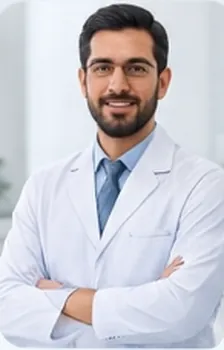
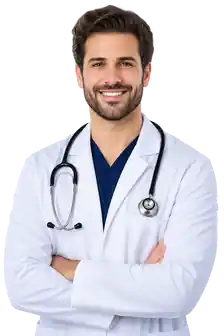
Replace RUWA team screenshot crops with original AI dentist portraits and refine card scale

diff --git a/whitening-2026.html b/whitening-2026.html
@@ -1132,11 +1132,11 @@ body,button,input,select,textarea{font-family:var(--body)}
 .team-intro>.section-marker{margin-inline:auto;justify-content:center}
 .team-intro h2{max-width:740px;margin:16px 0 12px;color:var(--ink);font-family:var(--display);font-size:clamp(30px,3.55vw,43px);font-weight:800;line-height:1.42;letter-spacing:-.04em;text-align:center}
 .team-lead{max-width:720px;margin:0 auto;color:var(--muted);font-size:15px;line-height:2;text-align:center}
-.team-cards{display:grid;grid-template-columns:repeat(3,minmax(0,1fr));gap:22px;align-items:stretch;margin:36px 0 0;padding:0;list-style:none}
+.team-cards{display:grid;grid-template-columns:repeat(3,minmax(0,1fr));gap:22px;align-items:stretch;width:100%;max-width:1150px;margin:32px auto 0;padding:0;list-style:none}
 .team-card-item{display:flex;min-width:0}
-.team-card{display:flex;flex-direction:column;width:100%;min-width:0;overflow:hidden;border:1px solid var(--line);border-radius:18px;background:var(--paper)}
-.team-card-media{position:relative;overflow:hidden;aspect-ratio:4/5;background:var(--lime)}
-.team-card-media img{display:block;width:100%;height:100%;object-fit:cover;object-position:center 27%}
+.team-card{display:flex;flex-direction:column;width:90%;min-width:0;margin-inline:auto;overflow:hidden;border:1px solid var(--line);border-radius:18px;background:var(--paper)}
+.team-card-media{position:relative;overflow:hidden;aspect-ratio:4/5;background:#eef2f3}
+.team-card-media img{display:block;width:100%;height:100%;object-fit:cover;object-position:center 22%}
 .team-card-body{display:flex;flex:1;flex-direction:column;align-items:center;justify-content:flex-start;gap:5px;min-height:150px;padding:18px 16px 20px;text-align:center}
 .team-card-label{display:block;color:var(--blue-deep);font-size:11px;font-weight:700;line-height:1.65}
 .team-card h3{margin:2px 0 0;color:var(--ink);font-family:var(--display);font-size:17px;font-weight:800;line-height:1.55}
@@ -1144,18 +1144,18 @@ body,button,input,select,textarea{font-family:var(--body)}
 .team-disclosure{max-width:760px;margin:22px auto 0;color:var(--muted);font-size:11px;line-height:1.85;text-align:center}
 @media(max-width:900px){
  .team-section{padding-block:58px}
- .team-cards{grid-template-columns:repeat(2,minmax(0,1fr));gap:18px}
- .team-card-item:last-child{grid-column:1/-1;justify-content:center}
- .team-card-item:last-child .team-card{width:calc((100% - 18px)/2)}
+ .team-cards{grid-template-columns:repeat(2,minmax(0,1fr));gap:18px;max-width:760px}
+ .team-card-item:last-child{grid-column:1/-1;width:calc((100% - 18px)/2);justify-self:center;justify-content:center}
+ .team-card-item:last-child .team-card{width:90%}
 }
 @media(max-width:620px){
  .team-section{padding-block:52px}
  .team-intro h2{margin-top:13px;margin-bottom:10px;font-size:clamp(29px,7.1vw,35px);line-height:1.42}
  .team-lead{font-size:14px;line-height:1.95}
- .team-cards{grid-template-columns:minmax(0,1fr);gap:16px;margin-top:25px}
- .team-card-item:last-child{grid-column:auto}
- .team-card-item:last-child .team-card{width:100%}
- .team-card{width:min(100%,390px);margin-inline:auto}
+ .team-cards{grid-template-columns:minmax(0,1fr);gap:16px;max-width:390px;margin:25px auto 0}
+ .team-card-item:last-child{grid-column:auto;width:100%;justify-self:stretch}
+ .team-card-item:last-child .team-card{width:min(90%,350px)}
+ .team-card{width:min(90%,350px);margin-inline:auto}
  .team-card-media{aspect-ratio:4/5}
  .team-card-body{min-height:132px;padding:15px 15px 17px}
  .team-card h3{font-size:16px}
@@ -1370,15 +1370,15 @@ body,button,input,select,textarea{font-family:var(--body)}
    </header>
    <ul class="team-cards" aria-label="ثلاث صور توضيحية لأطباء الأسنان">
     <li class="team-card-item"><article class="team-card">
-     <div class="team-card-media"><img src="assets/ruwa-team-doctor-01.webp" width="224" height="350" alt="صورة توضيحية مولّدة بالذكاء الاصطناعي لطبيب أسنان رجل، ولا تمثل شخصًا حقيقيًا." loading="lazy" decoding="async"></div>
+     <div class="team-card-media"><img src="assets/ruwa-team-doctor-01.webp" width="640" height="960" alt="صورة توضيحية مولّدة بالذكاء الاصطناعي لطبيب أسنان رجل، ولا تمثل شخصًا حقيقيًا." loading="lazy" decoding="async"></div>
      <div class="team-card-body"><span class="team-card-label">نموذج ملف طبي تجريبي</span><h3>بيانات الطبيب الفعلية</h3><p>تُضاف بعد التحقق من الهوية والمؤهلات والترخيص المهني.</p></div>
     </article></li>
     <li class="team-card-item"><article class="team-card">
-     <div class="team-card-media"><img src="assets/ruwa-team-doctor-02.webp" width="224" height="350" alt="صورة توضيحية مولّدة بالذكاء الاصطناعي لطبيب أسنان رجل، ولا تمثل شخصًا حقيقيًا." loading="lazy" decoding="async"></div>
+     <div class="team-card-media"><img src="assets/ruwa-team-doctor-02.webp" width="640" height="800" alt="صورة توضيحية مولّدة بالذكاء الاصطناعي لطبيب أسنان رجل، ولا تمثل شخصًا حقيقيًا." loading="lazy" decoding="async"></div>
      <div class="team-card-body"><span class="team-card-label">نموذج ملف طبي تجريبي</span><h3>بيانات الطبيب الفعلية</h3><p>تُضاف بعد التحقق من الهوية والمؤهلات والترخيص المهني.</p></div>
     </article></li>
     <li class="team-card-item"><article class="team-card">
-     <div class="team-card-media"><img src="assets/ruwa-team-doctor-03.webp" width="224" height="350" alt="صورة توضيحية مولّدة بالذكاء الاصطناعي لطبيب أسنان رجل، ولا تمثل شخصًا حقيقيًا." loading="lazy" decoding="async"></div>
+     <div class="team-card-media"><img src="assets/ruwa-team-doctor-03.webp" width="640" height="960" alt="صورة توضيحية مولّدة بالذكاء الاصطناعي لطبيب أسنان رجل، ولا تمثل شخصًا حقيقيًا." loading="lazy" decoding="async"></div>
      <div class="team-card-body"><span class="team-card-label">نموذج ملف طبي تجريبي</span><h3>بيانات الطبيب الفعلية</h3><p>تُضاف بعد التحقق من الهوية والمؤهلات والترخيص المهني.</p></div>
     </article></li>
    </ul>
